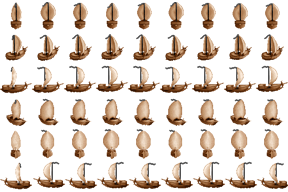
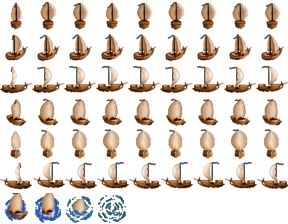
Added nodes, and node sprites and animations. Added boat animation

diff --git a/src/game.js b/src/game.js
@@ -19,22 +19,23 @@ var game = function () {
 	==============================*/
 
 	Q.animations('boat', {
-		/*
-		move_right: 		{ frames: [1, 2, 3], rate: 1/10 },
-		move_left: 		{ frames: [15, 16, 17], rate: 1/10 },
-		move_top: 		{ frames: [15, 16, 17], rate: 1/10 },
-		move_bottom: 		{ frames: [15, 16, 17], rate: 1/10 },
-		stand_right: 	{ frames: [0] },
-		stand_left: 	{ frames: [0] },
+		move_right: 		{ frames: [19, 20, 21, 22, 23, 24, 25, 26], rate: 1/5 },
+		move_left: 		{ frames: [46, 47, 48, 49, 50, 51, 52, 53], rate: 1/5 },
+		move_top: 		{ frames: [1, 2, 3, 4, 5, 6, 7, 8], rate: 1/5 },
+		move_bottom: 		{ frames: [37, 38, 39, 40, 41, 42, 43, 44], rate: 1/5 },
+		stand_right: 	{ frames: [18] },
+		stand_left: 	{ frames: [45] },
 		stand_top: 	{ frames: [0] },
-		stand_bottom: 	{ frames: [0] }*/ //TODO
+		stand_bottom: 	{ frames: [36] },
+		sink_boat: { frames: [56, 57, 58, 59] }
 	});
 
 	Q.Sprite.extend("Boat", {
 	init: function(p) {
 		this._super(p, {
-			sheet: "boatR",
+			sheet: "boatT",
 			sprite: "boat",
+			frame: 0,
 			moving: false,
 			speed: 300,
 			vx: 0,
@@ -46,6 +47,7 @@ var game = function () {
 			});
 
 			this.add('animation, tween');
+			this.play("stand_right");
 	},
 
 	step: function(dt) {
@@ -54,47 +56,70 @@ var game = function () {
 				//nos movemos y hacemos animacion
 				Q.inputs['up'] = false;
 				this.p.moving = true;
-				this.p.vy = -this.p.speed;
 				this.p.actualNode = map_data[this.p.actualNode].north;
+				this.p.vy = -this.p.speed;
+				this.play("move_top");
+
 			}else if(Q.inputs['down'] && map_data[this.p.actualNode].south != null){
 				//nos movemos y hacemos animacion
 				Q.inputs['down'] = false;
 				this.p.moving = true;
-				this.p.vy = this.p.speed;
 				this.p.actualNode = map_data[this.p.actualNode].south;
+				this.p.vy = this.p.speed;
+				this.play("move_bottom");
+
 			}else if(Q.inputs['left'] && map_data[this.p.actualNode].west != null){
 				//nos movemos y hacemos animacion
 				Q.inputs['left'] = false;
 				this.p.moving = true;
-				this.p.vx = -this.p.speed;
 				this.p.actualNode = map_data[this.p.actualNode].west;
+				this.p.vx = -this.p.speed;
+				this.play("move_left");
+
 			}else if(Q.inputs['right'] && map_data[this.p.actualNode].east != null){
 				//nos movemos y hacemos animacion
 				Q.inputs['right'] = false;
 				this.p.moving = true;
-				this.p.vx = this.p.speed;
 				this.p.actualNode = map_data[this.p.actualNode].east;
+				this.p.vx = this.p.speed;
+				this.play("move_right");
 			}
 		}else{
+			console.log(this.p.vx + " " + this.p.vy)
 			if(this.p.vx > 0 || this.p.vy > 0){
 				if(this.p.x + dt * this.p.vx > map_data[this.p.actualNode].x ||
 					this.p.y + dt * this.p.vy > map_data[this.p.actualNode].y){
-						this.p.x = map_data[this.p.actualNode].x;
-						this.p.y = map_data[this.p.actualNode].y;
-						this.p.vx = 0;
-						this.p.vy = 0;
+
+						if(this.p.vx > 0){ //right
+							this.p.vx = 0;
+							this.p.x = map_data[this.p.actualNode].x;
+							this.play("stand_right");
+						}
+						else{							//botom
+							this.p.vy = 0;
+							this.p.y = map_data[this.p.actualNode].y;
+							this.play("stand_bottom");
+						}
 						this.p.moving = false;
 					}else{
 						this.p.x = this.p.x + dt * this.p.vx;
 						this.p.y = this.p.y + dt * this.p.vy;
 					}
+
 			}else {
 				if(this.p.x + dt * this.p.vx < map_data[this.p.actualNode].x ||
 					this.p.y + dt * this.p.vy < map_data[this.p.actualNode].y){
-						this.p.x = map_data[this.p.actualNode].x;
-						this.p.y = map_data[this.p.actualNode].y;
-						this.p.vx = 0;
-						this.p.vy = 0;
+						if(this.p.vx < 0){ //left
+							this.p.vx = 0;
+							this.p.x = map_data[this.p.actualNode].x;
+							this.play("stand_left");
+							console.log("left");
+						}
+						else{							//top
+							this.p.vy = 0;
+							this.p.y = map_data[this.p.actualNode].y;
+							this.play("stand_top");
+						}
 						this.p.moving = false;
 					}else{
 						this.p.x = this.p.x + dt * this.p.vx;
@@ -110,11 +135,23 @@ var game = function () {
 	=          		Node		         =
 	==============================*/
 
+	Q.animations('nodeO', {
+		shine: { frames: [0, 1, 2], rate: 3 }
+	});
+
 	Q.Sprite.extend("Node", {
 	init: function(p) {
-		this._super(p, {asset:""});
+		this._super(p, {
+			sprite:"nodeO",
+			sheet:"nodeO",
+			frame: 0
+		});
 
 			this.add('animation, tween');
+	},
+
+	step: function(dt) {
+		this.play("shine");
 	}
 });
 
@@ -187,14 +224,10 @@ var game = function () {
 		//crate elements
 
 		boat = createElements(stage);
+		stage.insert(boat);
 
 		stage.add("viewport").follow(boat);
 	 	//var boat = stage.insert(new Q.Boat({x:20, y:20}));
-
-	 	//Q.state.reset({ coins: 0 });
-
-	 	//Q.stageScene('hud', 1);
-
 	 	//Q.audio.play('music_main.mp3', {loop: true});
 /*
 	 	var container = stage.insert(new Q.UI.Container({
@@ -229,10 +262,12 @@ var game = function () {
 
 	/*-----   End of Scenes   -----*/
 
-	Q.load(["boat.png", "boat_enemy.png", "boat.json",
-						"intro_f.png",
+	Q.load(["intro_f.png",
+						"boat.png", "boat_enemy.png", "boat.json",
+						"nodes.png", "nodes.json",
 						"bg.png", "tiles.png"], function() {
 		Q.compileSheets("boat.png","boat.json");
+		Q.compileSheets("nodes.png","nodes.json");
 		Q.stageScene("initGame");
 	});
 

diff --git a/src/map.js b/src/map.js
@@ -4,8 +4,10 @@ function createElements(stage) {
   for(var node in map_data){
     var node_type = map_data[node].type;
     //Todos los elementos son nodos, habria que crear un nodo en cada sitio
+    stage.insert(new Q.Node({x:map_data[node].x, y:map_data[node].y}));
     if(node_type == "1"){
-      boat = stage.insert(new Q.Boat({x:map_data[node].x, y:map_data[node].y, actualNode:node}));
+      //boat = stage.insert(new Q.Boat({x:map_data[node].x, y:map_data[node].y, actualNode:node}));
+      boat = new Q.Boat({x:map_data[node].x, y:map_data[node].y, actualNode:node});
     }else if(node_type == "2"){
       //barco enemigo
     }else if(node_type == "2"){
